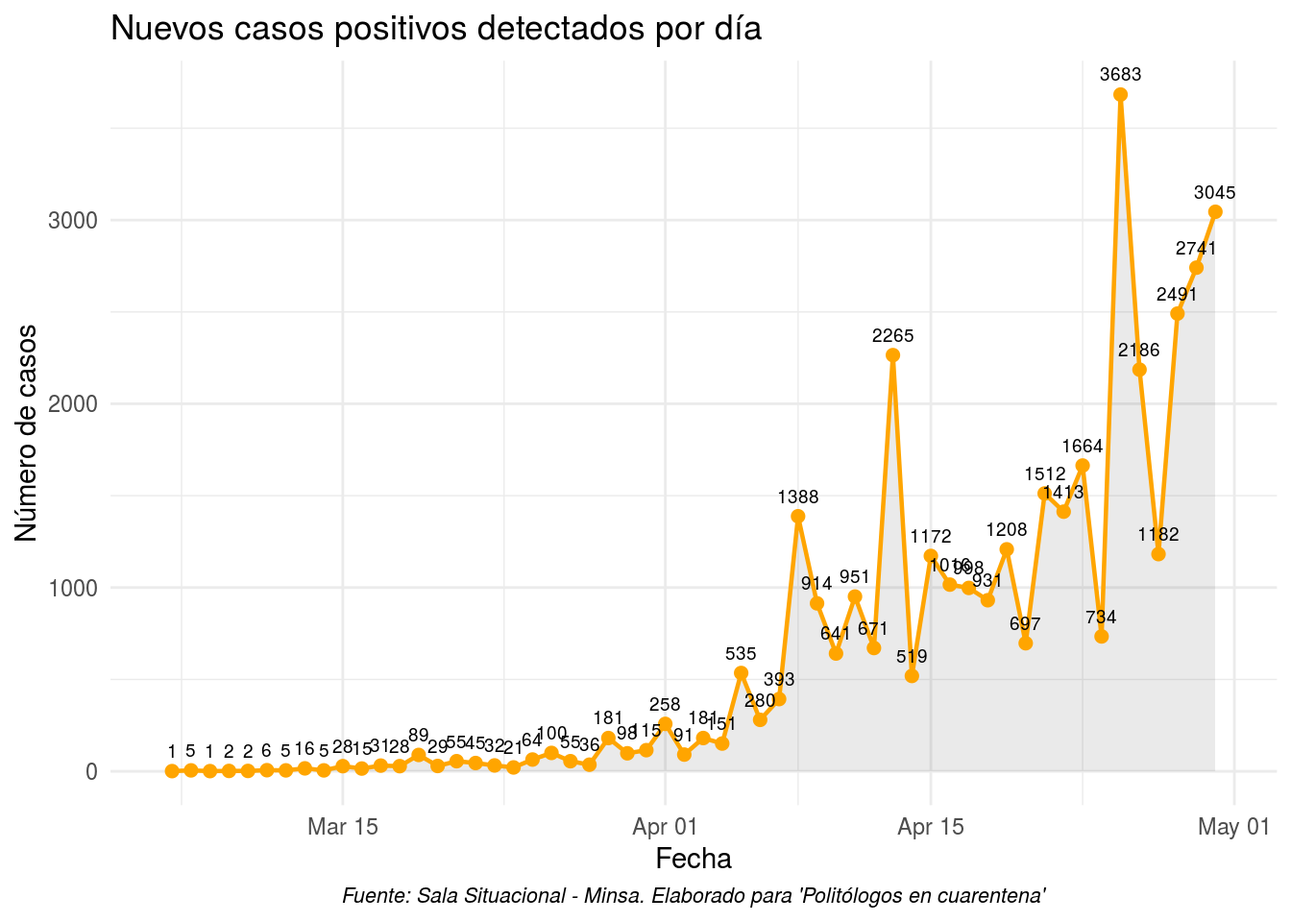
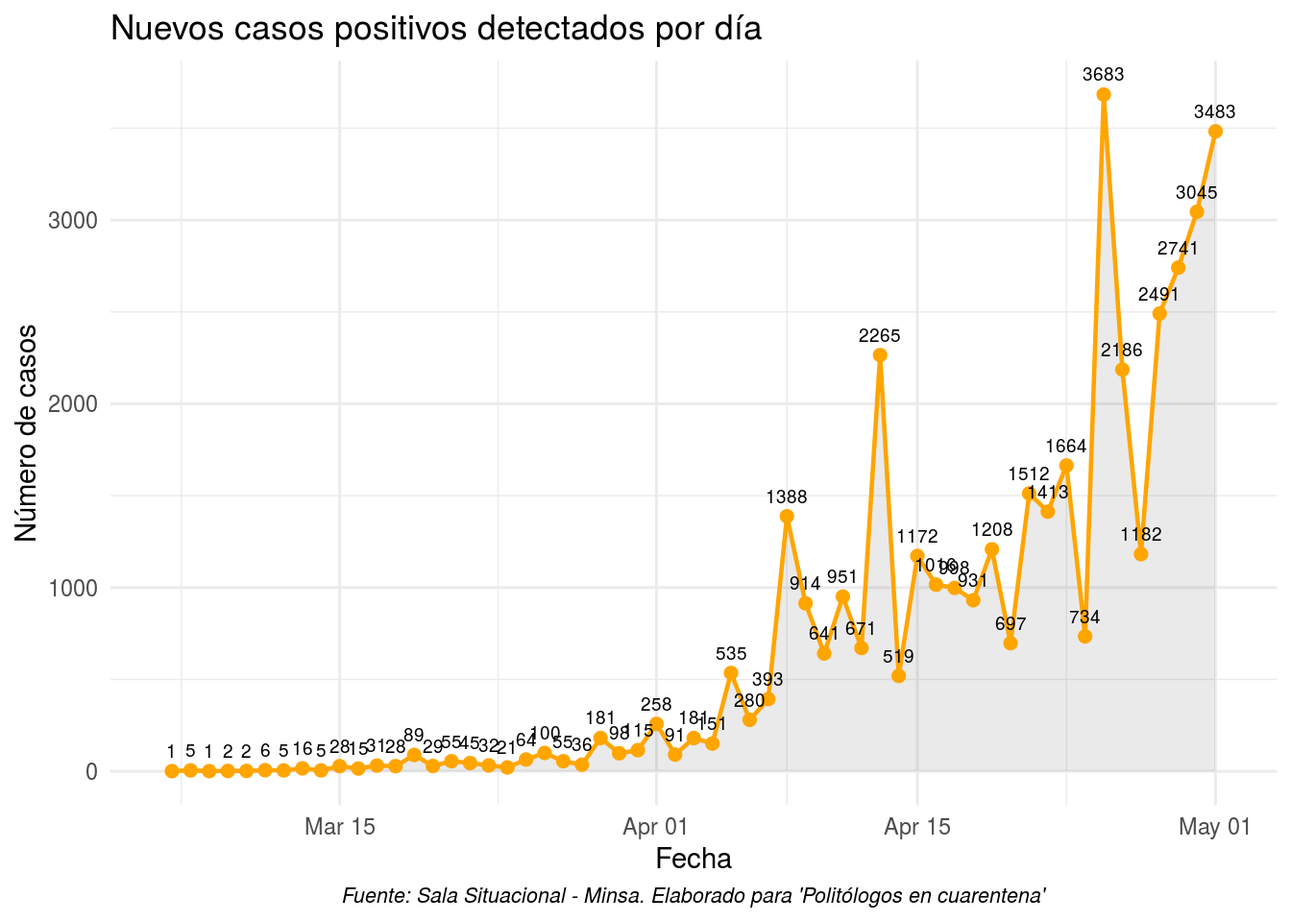
datos del 01 de mayo

diff --git a/nacional.html b/nacional.html
@@ -354,8 +354,8 @@ La <strong>taxonomía NATO</strong> (acrónimo de las palabras <em>nodality</em>
 <p>
 Entonces, <strong>¿Cuáles han sido los instrumentos de política puestos en práctica por el gobierno para enfrentar la crisis del COVID-19?</strong>
 </p>
-<div id="htmlwidget-58971e2299ae36372418" style="width:100%;height:auto;" class="datatables html-widget"></div>
-<script type="application/json" data-for="htmlwidget-58971e2299ae36372418">{"x":{"filter":"none","data":[["2020-04-30","2020-04-29","2020-04-29","2020-04-14","2020-04-09","2020-04-02","2020-04-02","2020-04-01","2020-03-30","2020-03-30","2020-03-30","2020-03-29","2020-03-28","2020-03-26","2020-03-26","2020-03-26","2020-03-26","2020-03-26","2020-03-20","2020-03-20","2020-03-20","2020-03-20","2020-03-18","2020-03-18","2020-03-17","2020-03-17","2020-03-17","2020-03-16","2020-03-15","2020-03-15","2020-03-15","2020-03-15","2020-03-15","2020-03-15","2020-03-15","2020-03-15","2020-03-15","2020-03-14","2020-03-14","2020-03-13","2020-03-12","2020-03-12","2020-03-12","2020-03-12","2020-03-11","2020-03-11","2020-03-09","2020-03-08","2020-03-06","2020-03-06","2020-03-06"],["Economía","Abastecimiento","Economía","Justicia","Economía","Orden Público","Anticorrupción","Salud","Salud","Orden Público","Laboral","Educación","Economía","Orden Público","Orden Público","Población vulnerable","Economía","Economía","Salud","Salud","Laboral","Economía","Orden Público","Servicios públicos","Orden Público","Economía","Abastecimiento","Población vulnerable","Orden Público","Orden Público","Orden Público","Transporte","Transporte","Laboral","Laboral","Salud","Salud","Economía","Orden Público","Obligaciones tributarias","Educación","Orden Público","Orden Público","Obligaciones tributarias","Orden Público","Orden Público","Salud","Salud","Salud","Salud","Salud"],["Aprobación del retiro del 25% de los fondos de AFP","Cierre por 10 días del Mercado Caqueta para su desinfección y apertura de mercado itinerante en la Av. Zarumilla para el abastecimiento temporal","Se habilita el retiro de un máximo de 3000 soles de la AFP","Aplicación de la conversión automática de la pena a arresto domiciliario para personas condenadas por el delito de omisión de asistencia familiar con el objetivo de reducir el hacinamiento en los centro penitenciarios y evitar contagios de COVID-19","Lanzamiento del aplicativo web que permite el seguimiento del presupuesto asignado para mitigar efectos del COVID-19","Se restringe la movilización de hombres y mujeres a días determinados, para reducir la circulación de personas. Mujeres: martes, jueves y sábados. Hombres: lunes, miércoles y viernes","Se dispone el uso obligatorio de la \"Plataforma  para la Transparencia de la Gestión Pública en la Emergencia Sanitaria COVID-19\" por parte de los gobiernos locales","Se apertura la plataforma virtual \"Perú en tus manos\"","Especificaciones para fabricación de mascarillas textiles de uso comunitario","Modificación del horario de Inmovilizacion Social Obligatoria desde las 6 pm. hasta las 5 am. a nivel nacional. Excepción de Loreto, Piura, Lambayeque y La Libertad, Tumbes donde se aplicará desde las 4 pm.","Autorización de los 2000 soles de AFP para aquellos trabajadores que no estan en planilla de los ultimos 12 meses.","Aprobación de los criterios para la supervisión de la adaptación de la educación no presencial, con caracter excepcional, en las universidades y escuelas de posgrado","Aprobación de Contrato de Fideicomiso de Administración del Fondo de Apoyo Empresarial a la MYPE","Ampliación de Estado de Emergencia por 13 dias calendarios","Registro de personas infractoras del Estado de Emergencia para derivarse al Ministerio Público","Entrega de canasta basica a familias vulnerables","Suspension del mes de abril a los aportes en AFP","Subsidio para el pago de planilla de empleadores del sector privado orientado a la preservación del empleo","App para registro y pruebas autoaplicadas","Aumento constante de pruebas diarias aplicadas","Se establece la licencia con goce de haber compensable.","Apoyo financiero a la MYPE y financiamiento de acciones ante los efectos del COVID-19","Inmovilizacion Social Obligatorio (de 8 pm. a 5 am.)","Postergacion de pagos de servicios publicos del mes de marzo","Autorización de solicitud de pase de tránsito","Ampliación de la vigencia de los DNI caducos o próximos a caducar, para acceder a bienes y servicios","Prorrogan vigencia de títulos habilitantes en materia de licencias de conducir, servicios de transporte de personas y de carga y mercancía","Bono de 380 soles para familias en situación en situación vulnerable","Declaración de Estado de Emergencia (suspensión de derechos constitucionales)","Suspensión de acceso publico a lugares y toda actividad masiva","Cierre temporal de fronteras durante el tiempo de Estado de Emergencia","Transporte urbano reduce oferta en 50%","Restricción de transporte interprovincial (exceptuando a carga y/o mercancía)","Autorización del trabajo remoto para el sector publico y privado","Subsidio a trabajadores con COVID-19","#quedateencasa #yomequedoencasa","Reporte diarios del avance de las medidas por parte del Presidente","Amplían el alcance de la cobertura del Fondo CRECER para las Pymes","Suspensión temporal de recepción de naves crucero","Reduccion a 0% de tasa arancelaria a la importación de bienes vinculados a la Emergencia Sanitaria","Postergación o suspensión de actividades en los universidades e institutos públicos o privados ","Prohibicion de cualquier espectáculo de más de 300 personas y locales al 50% de aforo","Suspensión de vuelos a Europa y Asia por 30 dias","Aplazamiento de la declaracion de impuestos","Aislamiento domiciliario por catorce (14) días para personas provenientes de España, Italia y China","Postergación o suspensión de actividades en los centros educativos públicos o privados ","Guía para la prevención del COVID-19 en el ámbito laboral","Declaración Jurada de Salud del Viajero para prevenir el coronavirus (COVID-19)","Campañas de promoción de lavado de manos","Inicio de reportes diarios de casos confirmados","Habilitación de la Linea 113"],["Tesoro","Autoridad","Tesoro","Autoridad","Nodalidad","Autoridad","Nodalidad","Nodalidad","Autoridad","Autoridad","Tesoro","Autoridad","Tesoro","Autoridad","Autoridad","Tesoro","Tesoro","Tesoro","Nodalidad","Nodalidad","","Tesoro","Autoridad","Tesoro","Nodalidad","Tesoro","Organización","Tesoro","Autoridad","Autoridad","Autoridad","Autoridad","Autoridad","Autoridad","Tesoro","Nodalidad","Nodalidad","Tesoro","Autoridad","Tesoro","Autoridad","Autoridad","Autoridad","Tesoro","Autoridad","Autoridad","Autoridad","Nodalidad","Nodalidad","Nodalidad","Organización"]],"container":"<table class=\"display\">\n  <thead>\n    <tr>\n      <th>Fecha<\/th>\n      <th>Sector<\/th>\n      <th>Instrumento<\/th>\n      <th>Tipo<\/th>\n    <\/tr>\n  <\/thead>\n<\/table>","options":{"pageLength":10,"lengthMenu":[10,15,20],"language":{"lengthMenu":"Mostrar _MENU_ entradas","info":"Mostrando _START_ al _END_ de _TOTAL_ entradas","search":"Buscar:","paginate":{"previous":"Anterior","next":"Siguiente"}},"order":[],"autoWidth":false,"orderClasses":false}},"evals":[],"jsHooks":[]}</script>
+<div id="htmlwidget-e8ee0757633da7022fa9" style="width:100%;height:auto;" class="datatables html-widget"></div>
+<script type="application/json" data-for="htmlwidget-e8ee0757633da7022fa9">{"x":{"filter":"none","data":[["2020-04-30","2020-04-29","2020-04-29","2020-04-29","2020-04-27","2020-04-14","2020-04-09","2020-04-02","2020-04-02","2020-04-01","2020-03-30","2020-03-30","2020-03-30","2020-03-29","2020-03-28","2020-03-26","2020-03-26","2020-03-26","2020-03-26","2020-03-26","2020-03-20","2020-03-20","2020-03-20","2020-03-20","2020-03-18","2020-03-18","2020-03-17","2020-03-17","2020-03-17","2020-03-16","2020-03-15","2020-03-15","2020-03-15","2020-03-15","2020-03-15","2020-03-15","2020-03-15","2020-03-15","2020-03-15","2020-03-14","2020-03-14","2020-03-13","2020-03-12","2020-03-12","2020-03-12","2020-03-12","2020-03-11","2020-03-11","2020-03-09","2020-03-08","2020-03-06","2020-03-06","2020-03-06"],["Economía","Economía","Abastecimiento","Economía","","Justicia","Economía","Orden Público","Anticorrupción","Salud","Salud","Orden Público","Laboral","Educación","Economía","Orden Público","Orden Público","Población vulnerable","Economía","Economía","Salud","Salud","Laboral","Economía","Orden Público","Servicios públicos","Orden Público","Economía","Abastecimiento","Población vulnerable","Orden Público","Orden Público","Orden Público","Transporte","Transporte","Laboral","Laboral","Salud","Salud","Economía","Orden Público","Obligaciones tributarias","Educación","Orden Público","Orden Público","Obligaciones tributarias","Orden Público","Orden Público","Salud","Salud","Salud","Salud","Salud"],["Aprobación del retiro del 25% de los fondos de AFP","Grupo de Trabajo sobre la adopción de medidas gubernamentales y de comportamiento social","Cierre por 10 días del Mercado Caqueta para su desinfección y apertura de mercado itinerante en la Av. Zarumilla para el abastecimiento temporal","Se habilita el retiro de un máximo de 3000 soles de la AFP","Se aprueba el \"Decreto Legislativo que establece medidas para garantizar la atención y protección de las víctimas de violencia contra las mujeres y los integrantes del grupo familiar durante la emergencia sanitaria declarada por el COVID-19\", mediante el cual se simplifica el procedimiento para atención a víctimas.","Aplicación de la conversión automática de la pena a arresto domiciliario para personas condenadas por el delito de omisión de asistencia familiar con el objetivo de reducir el hacinamiento en los centro penitenciarios y evitar contagios de COVID-19","Lanzamiento del aplicativo web que permite el seguimiento del presupuesto asignado para mitigar efectos del COVID-19","Se restringe la movilización de hombres y mujeres a días determinados, para reducir la circulación de personas. Mujeres: martes, jueves y sábados. Hombres: lunes, miércoles y viernes","Se dispone el uso obligatorio de la \"Plataforma  para la Transparencia de la Gestión Pública en la Emergencia Sanitaria COVID-19\" por parte de los gobiernos locales","Se apertura la plataforma virtual \"Perú en tus manos\"","Especificaciones para fabricación de mascarillas textiles de uso comunitario","Modificación del horario de Inmovilizacion Social Obligatoria desde las 6 pm. hasta las 5 am. a nivel nacional. Excepción de Loreto, Piura, Lambayeque y La Libertad, Tumbes donde se aplicará desde las 4 pm.","Autorización de los 2000 soles de AFP para aquellos trabajadores que no estan en planilla de los ultimos 12 meses.","Aprobación de los criterios para la supervisión de la adaptación de la educación no presencial, con caracter excepcional, en las universidades y escuelas de posgrado","Aprobación de Contrato de Fideicomiso de Administración del Fondo de Apoyo Empresarial a la MYPE","Ampliación de Estado de Emergencia por 13 dias calendarios","Registro de personas infractoras del Estado de Emergencia para derivarse al Ministerio Público","Entrega de canasta basica a familias vulnerables","Suspension del mes de abril a los aportes en AFP","Subsidio para el pago de planilla de empleadores del sector privado orientado a la preservación del empleo","App para registro y pruebas autoaplicadas","Aumento constante de pruebas diarias aplicadas","Se establece la licencia con goce de haber compensable.","Apoyo financiero a la MYPE y financiamiento de acciones ante los efectos del COVID-19","Inmovilizacion Social Obligatorio (de 8 pm. a 5 am.)","Postergacion de pagos de servicios publicos del mes de marzo","Autorización de solicitud de pase de tránsito","Ampliación de la vigencia de los DNI caducos o próximos a caducar, para acceder a bienes y servicios","Prorrogan vigencia de títulos habilitantes en materia de licencias de conducir, servicios de transporte de personas y de carga y mercancía","Bono de 380 soles para familias en situación en situación vulnerable","Declaración de Estado de Emergencia por 15 días (suspensión de derechos constitucionales)","Suspensión de acceso publico a lugares y toda actividad masiva","Cierre temporal de fronteras durante el tiempo de Estado de Emergencia","Transporte urbano reduce oferta en 50%","Restricción de transporte interprovincial (exceptuando a carga y/o mercancía)","Autorización del trabajo remoto para el sector publico y privado","Subsidio a trabajadores con COVID-19","#quedateencasa #yomequedoencasa","Reporte diarios del avance de las medidas por parte del Presidente","Amplían el alcance de la cobertura del Fondo CRECER para las Pymes","Suspensión temporal de recepción de naves crucero","Reduccion a 0% de tasa arancelaria a la importación de bienes vinculados a la Emergencia Sanitaria","Postergación o suspensión de actividades en los universidades e institutos públicos o privados ","Prohibicion de cualquier espectáculo de más de 300 personas y locales al 50% de aforo","Suspensión de vuelos a Europa y Asia por 30 dias","Aplazamiento de la declaracion de impuestos","Aislamiento domiciliario por catorce (14) días para personas provenientes de España, Italia y China","Postergación o suspensión de actividades en los centros educativos públicos o privados ","Guía para la prevención del COVID-19 en el ámbito laboral","Declaración Jurada de Salud del Viajero para prevenir el coronavirus (COVID-19)","Campañas de promoción de lavado de manos","Inicio de reportes diarios de casos confirmados","Habilitación de la Linea 113"],["Tesoro","Nodalidad","Autoridad","Tesoro","","Autoridad","Nodalidad","Autoridad","Nodalidad","Nodalidad","Autoridad","Autoridad","Tesoro","Autoridad","Tesoro","Autoridad","Autoridad","Tesoro","Tesoro","Tesoro","Nodalidad","Nodalidad","","Tesoro","Autoridad","Tesoro","Nodalidad","Tesoro","Organización","Tesoro","Autoridad","Autoridad","Autoridad","Autoridad","Autoridad","Autoridad","Tesoro","Nodalidad","Nodalidad","Tesoro","Autoridad","Tesoro","Autoridad","Autoridad","Autoridad","Tesoro","Autoridad","Autoridad","Autoridad","Nodalidad","Nodalidad","Nodalidad","Organización"]],"container":"<table class=\"display\">\n  <thead>\n    <tr>\n      <th>Fecha<\/th>\n      <th>Sector<\/th>\n      <th>Instrumento<\/th>\n      <th>Tipo<\/th>\n    <\/tr>\n  <\/thead>\n<\/table>","options":{"pageLength":10,"lengthMenu":[10,15,20],"language":{"lengthMenu":"Mostrar _MENU_ entradas","info":"Mostrando _START_ al _END_ de _TOTAL_ entradas","search":"Buscar:","paginate":{"previous":"Anterior","next":"Siguiente"}},"order":[],"autoWidth":false,"orderClasses":false}},"evals":[],"jsHooks":[]}</script>
 </div>
 <div id="redes-de-subsistemas-politicos" class="section level3">
 <h3>2.3. Redes de subsistemas politicos</h3>
@@ -430,8 +430,8 @@ Su importancia radica en que son aquellos funcionarios quienes estan implementan
 Según el reporte de conflictos mensual emitido por la Defensoria del Pueblo, para el mes de marzo se registraron <strong>18 acciones de protesta</strong> vinculadas a la situación de emergencia por causa del COVID-19. En el mes de abril estas manifestaciones se han venido incrementando diariamente.
 </div>
 </p>
-<div id="htmlwidget-834a7ce3470ac13ee277" style="width:100%;height:auto;" class="datatables html-widget"></div>
-<script type="application/json" data-for="htmlwidget-834a7ce3470ac13ee277">{"x":{"filter":"none","data":[["2020-04-29","2020-04-29","2020-04-29","2020-04-29","2020-04-27","2020-04-24","2020-04-20","2020-03-30","2020-03-28","2020-03-27","2020-03-27","2020-03-24","2020-03-24","2020-03-19","2020-03-19","2020-03-18","2020-03-17","2020-03-17","2020-03-11","2020-03-11","2020-03-11","2020-03-10","2020-03-06","2020-03-02"],["Enfermeras del Hospital Militar","Padres de colegios privados","Ciudadanos loretanos","Padres de colegios privados en Juliaca","Técnicos y enfermeros del hospital Hipólito Unanue","Padres del Colegio Technology School","Personal de salud del Hospital Maria Auxiliadora","Presos del penal de Yanamilla\n","Población del sector calle\nDos ","Médicos del Hospital Honorio Delgado Espinoza","Población del sector de Chicago de Trujillo","Transportistas de Carga Pesada","Asociación de\nTransportes de Carga\nPeligrosa\n","Poblacion de Lima","Ciudadanos varados en\nlas afueras del\naeropuerto Jorge Chávez","Médicos del Hospital César Garayar García","Trabajadores del Programa Surco Verde","Población del asentamiento humano Complejo Habitaciona","Población del distrito de\nVíctor Larco","Personal de salud del Hospital Regional de Áncash - Eleazar Gusmán Barrón","Médicos, enfermeras y trabajadores del Hospital Carlos Alcántara","Médicos del Hospital Goyoneche","Médicos y personal del Hospital Uldarico Roca Fernández","Población de Nuevo Chimbote"],["Las enfermeras del Hospital Militar se vieron obligadas a protestar fuera de dicho nosocomio en Lima, debido a que no se les entrega protección adecuada para proteger su vida y salud del coronavirus COVID-19","Padres protestan en las afueras del colegio Trilce de Chorrillos para exigir reducción del 50% de la pensión","Loretanos bloquearon la Av. Faucett exigiendo traslado humanitario","Juliaca: padres protestan para lograr rebaja de pensiones en colegios privados","El personal pidió que se cumpla con sus pagos y se les asignen los implementos necesarios para que continúen luchando contra el COVID-19.","Padres protestan en los exteriores de colegios particulares por cobro de pensiones","Un grupo de profesionales de la salud, entre médicos, enfermeras y trabajadores, del hospital María Auxiliadora realizó una protesta frente a dicha institución, en Villa María del Triunfo, para reclamar por la falta de equipos de protección personal (EPP). ","Ampliación hasta el próximo 31 de octubre de la vigencia de la Habilitación del conductor y de la Tarjeta Única de Circulación (TUC).","Rechazan que el recinto deportivo Campeones del 36 sea considerado como albergue para pacientes positivos de coronavirus.","Rechazan la decisión de utilizar el área sensible como zona de aislamiento temporal para pacientes graves por coronavirus","Rechazan la instalación de un hospital itinerante para pacientes de coronavirus en el complejo deportivo Chan Chan.\n","Exigen se anule el cobro de peajes en pleno Estado de Emergencia Nacional","Denuncian el funcionamiento de la empresa minera Lincuna en pleno Estado de Emergencia Nacional","Exigen a las autoridades ayuda y que se disponga de un vuelo humanitario a la ciudad de Lima.","Exigen a las autoridades ayuda y que se disponga de vuelos humanitarios para los destinos de Arequipa, Piura, Cusco y Puerto Maldonado.","Exigen implementos necesarios y suficientes para poder atender los casos de pacientes con coronavirus.","Denuncian que pese a la prohibición de movimiento por el Estado de Emergencia a causa del coronavirus, la Municipalidad de Surco les obliga a trabajar con normalidad.","Exigen recibir el bono de S/. 380 anunciado por el Gobierno Nacional en el marco del Estado de Emergencia Nacional por el coronavirus.","Rechazan que el Centro Preventorio de EsSalud sea considerado para la atención de presuntos portadores de\ncoronavirus.","Exigen mejores condiciones e implementos como mascarillas, botas, mandiles; que ayuden a enfrentar posibles casos de coronavirus.","Denuncian la improvisación de Essalud para la atención de pacientes infectados con el nuevo coronavirus. Asimismo, exigen mejores condiciones e implementos como mascarillas, botas, mandiles, entre otros","Exigen mejores condiciones e implementos como mascarillas, botas, mandiles; que ayuden a enfrentar\nposibles casos de coronavirus.\n","Rechazan la designación del hospital Uldarico Roca Fernández como uno de los centros médicos para atender\ncasos de coronavirus en Perú.","Exigen el cierre temporal del puerto de Chimbote para evitar el ingreso de posibles casos del nuevo coronavirus\nen la región."],["Plantón","Plantón","Bloqueo de vía","Plantón","Plantón","Plantón","Plantón","Plantón","Plantón","Plantón","Plantón","Concentración","Concentración","Plantón","Concentración","Plantón","Paralización de actividades\n","Concentración","Concentración","Plantón","Plantón","Plantón","Plantón","Concentración"]],"container":"<table class=\"display\">\n  <thead>\n    <tr>\n      <th>Fecha<\/th>\n      <th>Actores en protesta<\/th>\n      <th>Contenido de demandas<\/th>\n      <th>Tipo de acción colectiva<\/th>\n    <\/tr>\n  <\/thead>\n<\/table>","options":{"order":[],"autoWidth":false,"orderClasses":false}},"evals":[],"jsHooks":[]}</script>
+<div id="htmlwidget-6733fa8289ee88d750f0" style="width:100%;height:auto;" class="datatables html-widget"></div>
+<script type="application/json" data-for="htmlwidget-6733fa8289ee88d750f0">{"x":{"filter":"none","data":[["2020-04-29","2020-04-29","2020-04-29","2020-04-29","2020-04-27","2020-04-24","2020-04-20","2020-03-30","2020-03-28","2020-03-27","2020-03-27","2020-03-24","2020-03-24","2020-03-19","2020-03-19","2020-03-18","2020-03-17","2020-03-17","2020-03-11","2020-03-11","2020-03-11","2020-03-10","2020-03-06","2020-03-02"],["Enfermeras del Hospital Militar","Padres de colegios privados","Ciudadanos loretanos","Padres de colegios privados en Juliaca","Técnicos y enfermeros del hospital Hipólito Unanue","Padres del Colegio Technology School","Personal de salud del Hospital Maria Auxiliadora","Presos del penal de Yanamilla\n","Población del sector calle\nDos ","Médicos del Hospital Honorio Delgado Espinoza","Población del sector de Chicago de Trujillo","Transportistas de Carga Pesada","Asociación de\nTransportes de Carga\nPeligrosa\n","Poblacion de Lima","Ciudadanos varados en\nlas afueras del\naeropuerto Jorge Chávez","Médicos del Hospital César Garayar García","Trabajadores del Programa Surco Verde","Población del asentamiento humano Complejo Habitaciona","Población del distrito de\nVíctor Larco","Personal de salud del Hospital Regional de Áncash - Eleazar Gusmán Barrón","Médicos, enfermeras y trabajadores del Hospital Carlos Alcántara","Médicos del Hospital Goyoneche","Médicos y personal del Hospital Uldarico Roca Fernández","Población de Nuevo Chimbote"],["Las enfermeras del Hospital Militar se vieron obligadas a protestar fuera de dicho nosocomio en Lima, debido a que no se les entrega protección adecuada para proteger su vida y salud del coronavirus COVID-19","Padres protestan en las afueras del colegio Trilce de Chorrillos para exigir reducción del 50% de la pensión","Loretanos bloquearon la Av. Faucett exigiendo traslado humanitario","Juliaca: padres protestan para lograr rebaja de pensiones en colegios privados","El personal pidió que se cumpla con sus pagos y se les asignen los implementos necesarios para que continúen luchando contra el COVID-19.","Padres protestan en los exteriores de colegios particulares por cobro de pensiones","Un grupo de profesionales de la salud, entre médicos, enfermeras y trabajadores, del hospital María Auxiliadora realizó una protesta frente a dicha institución, en Villa María del Triunfo, para reclamar por la falta de equipos de protección personal (EPP). ","Ampliación hasta el próximo 31 de octubre de la vigencia de la Habilitación del conductor y de la Tarjeta Única de Circulación (TUC).","Rechazan que el recinto deportivo Campeones del 36 sea considerado como albergue para pacientes positivos de coronavirus.","Rechazan la decisión de utilizar el área sensible como zona de aislamiento temporal para pacientes graves por coronavirus","Rechazan la instalación de un hospital itinerante para pacientes de coronavirus en el complejo deportivo Chan Chan.\n","Exigen se anule el cobro de peajes en pleno Estado de Emergencia Nacional","Denuncian el funcionamiento de la empresa minera Lincuna en pleno Estado de Emergencia Nacional","Exigen a las autoridades ayuda y que se disponga de un vuelo humanitario a la ciudad de Lima.","Exigen a las autoridades ayuda y que se disponga de vuelos humanitarios para los destinos de Arequipa, Piura, Cusco y Puerto Maldonado.","Exigen implementos necesarios y suficientes para poder atender los casos de pacientes con coronavirus.","Denuncian que pese a la prohibición de movimiento por el Estado de Emergencia a causa del coronavirus, la Municipalidad de Surco les obliga a trabajar con normalidad.","Exigen recibir el bono de S/. 380 anunciado por el Gobierno Nacional en el marco del Estado de Emergencia Nacional por el coronavirus.","Rechazan que el Centro Preventorio de EsSalud sea considerado para la atención de presuntos portadores de\ncoronavirus.","Exigen mejores condiciones e implementos como mascarillas, botas, mandiles; que ayuden a enfrentar posibles casos de coronavirus.","Denuncian la improvisación de Essalud para la atención de pacientes infectados con el nuevo coronavirus. Asimismo, exigen mejores condiciones e implementos como mascarillas, botas, mandiles, entre otros","Exigen mejores condiciones e implementos como mascarillas, botas, mandiles; que ayuden a enfrentar\nposibles casos de coronavirus.\n","Rechazan la designación del hospital Uldarico Roca Fernández como uno de los centros médicos para atender\ncasos de coronavirus en Perú.","Exigen el cierre temporal del puerto de Chimbote para evitar el ingreso de posibles casos del nuevo coronavirus\nen la región."],["Plantón","Plantón","Bloqueo de vía","Plantón","Plantón","Plantón","Plantón","Plantón","Plantón","Plantón","Plantón","Concentración","Concentración","Plantón","Concentración","Plantón","Paralización de actividades\n","Concentración","Concentración","Plantón","Plantón","Plantón","Plantón","Concentración"]],"container":"<table class=\"display\">\n  <thead>\n    <tr>\n      <th>Fecha<\/th>\n      <th>Actores en protesta<\/th>\n      <th>Contenido de demandas<\/th>\n      <th>Tipo de acción colectiva<\/th>\n    <\/tr>\n  <\/thead>\n<\/table>","options":{"order":[],"autoWidth":false,"orderClasses":false}},"evals":[],"jsHooks":[]}</script>
 </div>
 <div id="noticias-demandas-y-pronunciamientos" class="section level3">
 <h3>2.7. Noticias, demandas y pronunciamientos</h3>

diff --git a/subnacional.html b/subnacional.html
@@ -312,8 +312,8 @@ $(document).ready(function () {
 <h3>3.1. Gobiernos regionales</h3>
 <div id="datos-sobre-casos-y-muestras-realizadas" class="section level4">
 <h4>3.1.1. Datos sobre casos y muestras realizadas</h4>
-<div id="htmlwidget-a71017a41eb14923fc24" style="width:100%;height:auto;" class="datatables html-widget"></div>
-<script type="application/json" data-for="htmlwidget-a71017a41eb14923fc24">{"x":{"filter":"none","data":[["Amazonas","Áncash","Apurímac","Arequipa","Ayacucho","Cajamarca","Callao","Cusco","Huancavelica","Huánuco","Ica","Junín","La Libertad","Lambayeque","Lima Metropolitana","Lima Región","Loreto","Madre de Dios","Moquegua","Pasco","Piura","Puno","San Martín","Tacna","Tumbes","Ucayali"],[2278,9295,2867,10978,2291,4037,13614,4044,1916,3748,4896,5172,8132,10002,185104,2866,6122,5347,3651,2395,9773,4237,4760,4749,2822,3156],[122,693,78,571,95,170,3219,212,88,189,550,394,668,2176,22985,576,1202,113,120,113,1207,105,238,111,310,671],["545,36","781,84","706,58","793,94","371,81","301,04","1368,94","335,45","551,15","519,80","575,48","415,08","457,35","835,41","1935,77","314,80","692,92","3790,32","2087,92","942,67","526,33","361,30","585,21","1442,01","1254,99","635,70"],["29,21","58,29","19,22","41,30","15,42","12,68","323,68","17,59","25,31","26,21","64,65","31,62","37,57","181,75","240,37","63,27","136,05","80,10","68,63","44,48","65,00","8,95","29,26","33,70","137,86","135,16"],["5,36%","7,46%","2,72%","5,20%","4,15%","4,21%","23,64%","5,24%","4,59%","5,04%","11,23%","7,62%","8,21%","21,76%","12,25%","20,20%","19,63%","2,11%","3,29%","4,72%","12,35%","2,48%","5,00%","2,34%","10,99%","21,26%"]],"container":"<table class=\"display\">\n  <thead>\n    <tr>\n      <th>Región<\/th>\n      <th>Muestras realizadas<\/th>\n      <th>Positivos<\/th>\n      <th>Muestras x 100 mil hab.<\/th>\n      <th>Positivos x 100 mil hab.<\/th>\n      <th>Porcentaje de positivos<\/th>\n    <\/tr>\n  <\/thead>\n<\/table>","options":{"pageLength":10,"lengthMenu":[10,15,20],"language":{"lengthMenu":"Mostrar _MENU_ entradas","info":"Mostrando _START_ al _END_ de _TOTAL_ entradas","search":"Buscar:","paginate":{"previous":"Anterior","next":"Siguiente"}},"columnDefs":[{"className":"dt-right","targets":[1,2]}],"order":[],"autoWidth":false,"orderClasses":false}},"evals":[],"jsHooks":[]}</script>
+<div id="htmlwidget-6a3e4daf70a3c05b77c5" style="width:100%;height:auto;" class="datatables html-widget"></div>
+<script type="application/json" data-for="htmlwidget-6a3e4daf70a3c05b77c5">{"x":{"filter":"none","data":[["Amazonas","Áncash","Apurímac","Arequipa","Ayacucho","Cajamarca","Callao","Cusco","Huancavelica","Huánuco","Ica","Junín","La Libertad","Lambayeque","Lima Metropolitana","Lima Región","Loreto","Madre de Dios","Moquegua","Pasco","Piura","Puno","San Martín","Tacna","Tumbes","Ucayali"],[2278,9295,2867,10978,2291,4037,13614,4044,1916,3748,4896,5172,8132,10002,185104,2866,6122,5347,3651,2395,9773,4237,4760,4749,2822,3156],[122,693,78,571,95,170,3219,212,88,189,550,394,668,2176,22985,576,1202,113,120,113,1207,105,238,111,310,671],["545,36","781,84","706,58","793,94","371,81","301,04","1368,94","335,45","551,15","519,80","575,48","415,08","457,35","835,41","1935,77","314,80","692,92","3790,32","2087,92","942,67","526,33","361,30","585,21","1442,01","1254,99","635,70"],["29,21","58,29","19,22","41,30","15,42","12,68","323,68","17,59","25,31","26,21","64,65","31,62","37,57","181,75","240,37","63,27","136,05","80,10","68,63","44,48","65,00","8,95","29,26","33,70","137,86","135,16"],["5,36%","7,46%","2,72%","5,20%","4,15%","4,21%","23,64%","5,24%","4,59%","5,04%","11,23%","7,62%","8,21%","21,76%","12,25%","20,20%","19,63%","2,11%","3,29%","4,72%","12,35%","2,48%","5,00%","2,34%","10,99%","21,26%"]],"container":"<table class=\"display\">\n  <thead>\n    <tr>\n      <th>Región<\/th>\n      <th>Muestras realizadas<\/th>\n      <th>Positivos<\/th>\n      <th>Muestras x 100 mil hab.<\/th>\n      <th>Positivos x 100 mil hab.<\/th>\n      <th>Porcentaje de positivos<\/th>\n    <\/tr>\n  <\/thead>\n<\/table>","options":{"pageLength":10,"lengthMenu":[10,15,20],"language":{"lengthMenu":"Mostrar _MENU_ entradas","info":"Mostrando _START_ al _END_ de _TOTAL_ entradas","search":"Buscar:","paginate":{"previous":"Anterior","next":"Siguiente"}},"columnDefs":[{"className":"dt-right","targets":[1,2]}],"order":[],"autoWidth":false,"orderClasses":false}},"evals":[],"jsHooks":[]}</script>
 <p>
 <div style="text-align:right">
 Datos actualizados al 30/04/2020. Fuente: Sala Situacional-MINSA

diff --git a/casos.html b/casos.html
@@ -348,8 +348,8 @@ En ese sentido, esta sección tiene por objetivo responder a la pregunta <strong
 </div>
 <div id="evolución-en-la-disponibilidad-de-camas-uci" class="section level3">
 <h3>1.7. Evolución en la disponibilidad de camas UCI</h3>
-<div id="htmlwidget-c8367f7f7c0a87d4e4e6" style="width:100%;height:auto;" class="datatables html-widget"></div>
-<script type="application/json" data-for="htmlwidget-c8367f7f7c0a87d4e4e6">{"x":{"filter":"none","data":[["2020-04-21","2020-04-22","2020-04-23","2020-04-24","2020-04-25","2020-04-26","2020-04-27","2020-04-28","2020-04-29","2020-04-30"],[525,525,652,652,719,726,773,777,810,808],[380,396,467,505,545,554,598,600,623,651],[145,129,185,147,174,172,175,177,187,157]],"container":"<table class=\"display\">\n  <thead>\n    <tr>\n      <th>Fecha<\/th>\n      <th>Total de camas UCI<\/th>\n      <th>Camas UCI ocupadas<\/th>\n      <th>Camas UCI disponibles<\/th>\n    <\/tr>\n  <\/thead>\n<\/table>","options":{"columnDefs":[{"className":"dt-right","targets":[1,2,3]}],"order":[],"autoWidth":false,"orderClasses":false}},"evals":[],"jsHooks":[]}</script>
+<div id="htmlwidget-7bc57788a931f8295920" style="width:100%;height:auto;" class="datatables html-widget"></div>
+<script type="application/json" data-for="htmlwidget-7bc57788a931f8295920">{"x":{"filter":"none","data":[["2020-04-21","2020-04-22","2020-04-23","2020-04-24","2020-04-25","2020-04-26","2020-04-27","2020-04-28","2020-04-29","2020-04-30","2020-05-01"],[525,525,652,652,719,726,773,777,810,808,null],[380,396,467,505,545,554,598,600,623,651,null],[145,129,185,147,174,172,175,177,187,157,null]],"container":"<table class=\"display\">\n  <thead>\n    <tr>\n      <th>Fecha<\/th>\n      <th>Total de camas UCI<\/th>\n      <th>Camas UCI ocupadas<\/th>\n      <th>Camas UCI disponibles<\/th>\n    <\/tr>\n  <\/thead>\n<\/table>","options":{"columnDefs":[{"className":"dt-right","targets":[1,2,3]}],"order":[],"autoWidth":false,"orderClasses":false}},"evals":[],"jsHooks":[]}</script>
 </div>
 <div id="evolución-de-los-casos-positivos-activos" class="section level3">
 <h3>1.8. Evolución de los casos positivos activos</h3>
